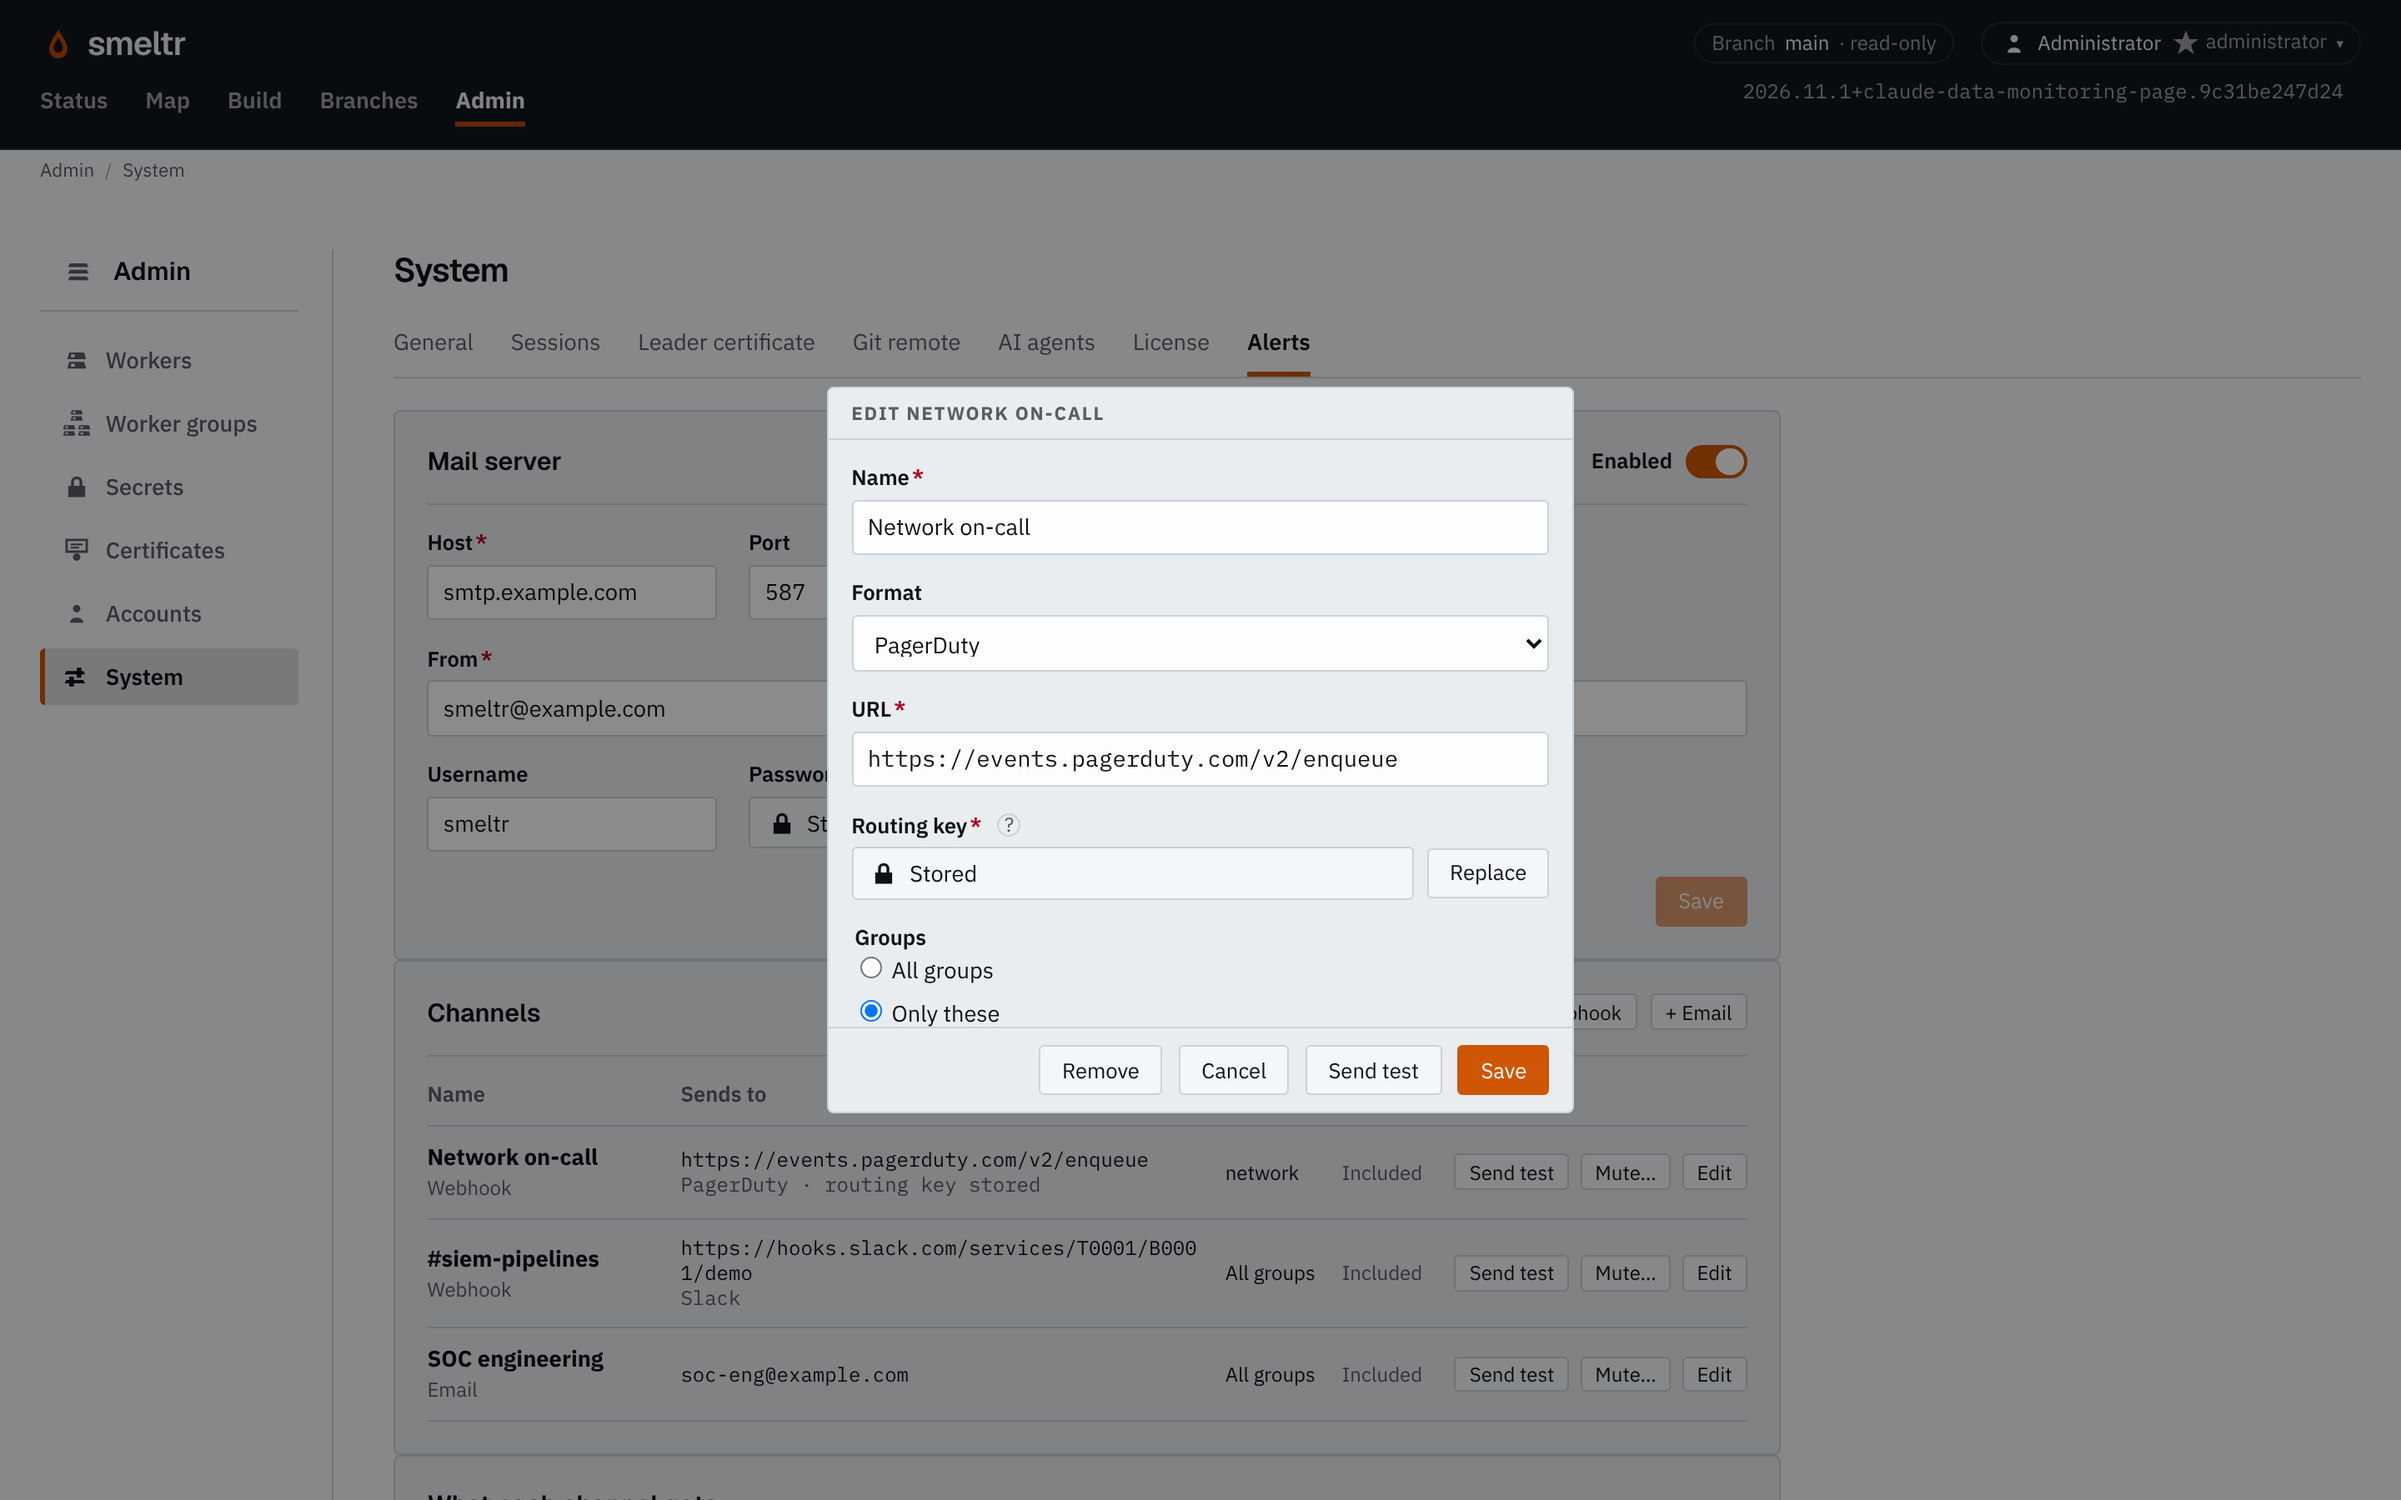
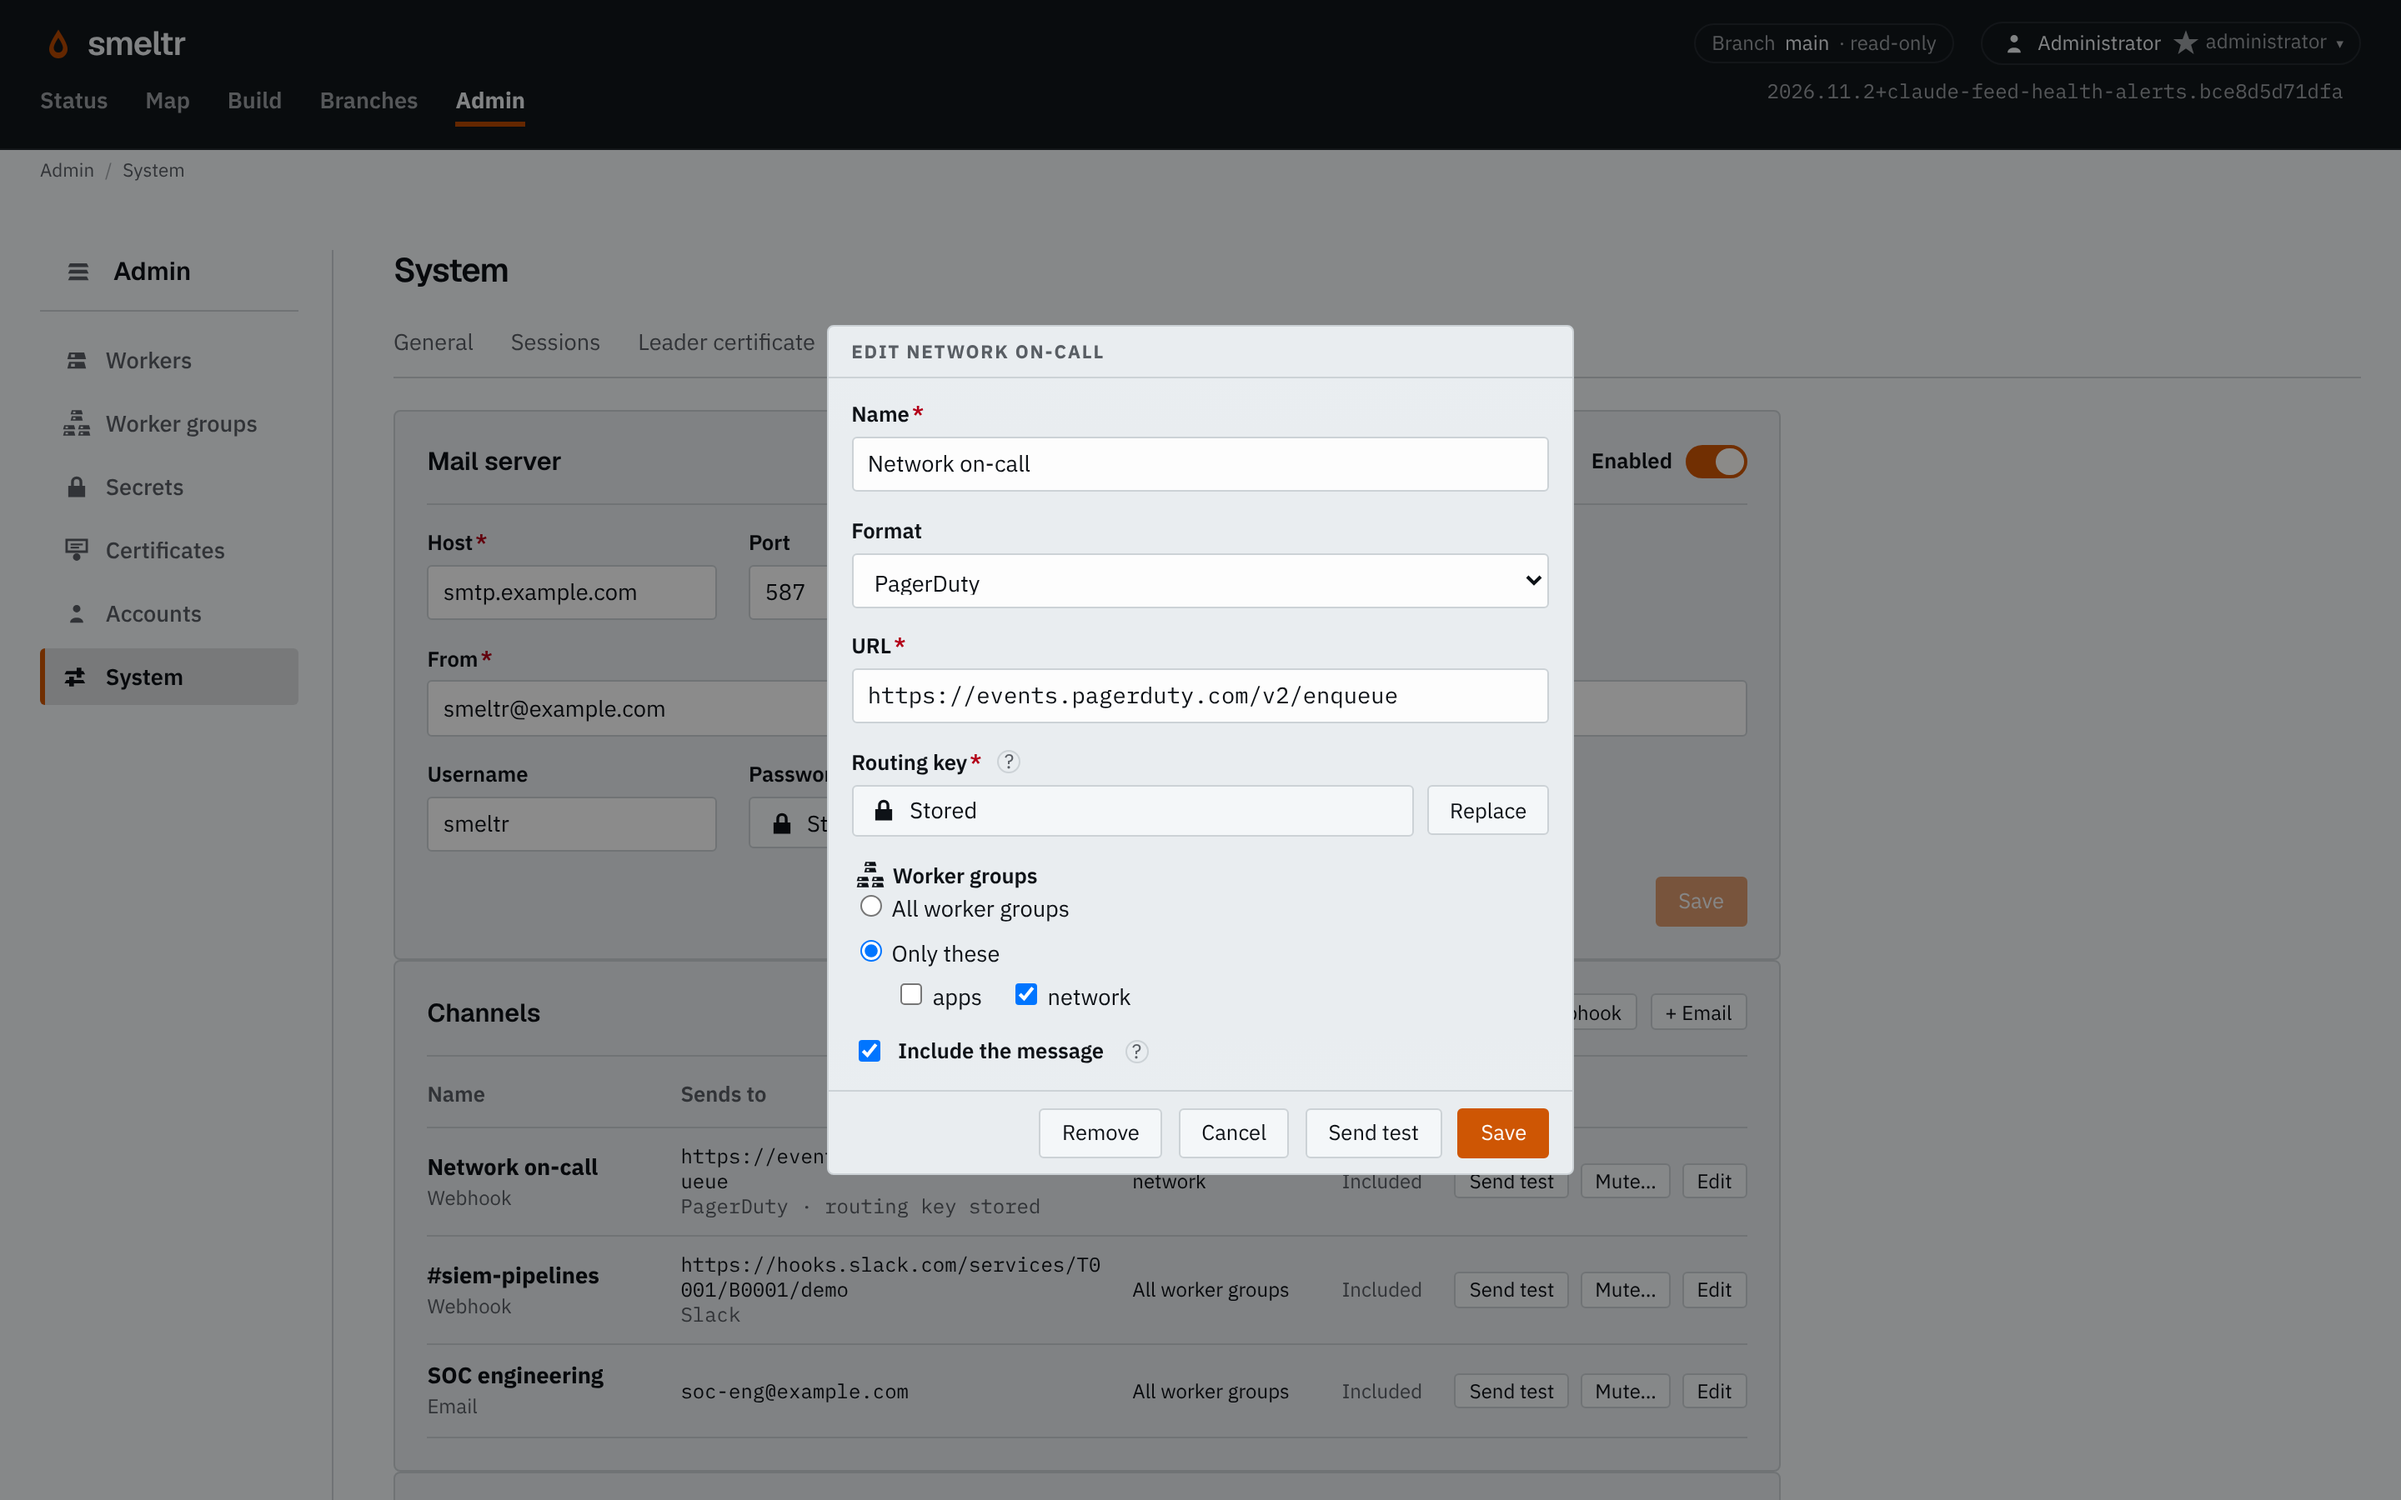
Website: Feed health's shots from a real outage, and the alerts as they look now
The volume and Issues shots come from the demo fleet with one FortiGate relay
down, and say "worker group" as the GUI now does. The alerts shots show the
Worker groups column and the whole channel dialog. The demo's history gives
each earlier day its own level, so the band is as wide as a real feed's.

Claude-Session: https://claude.ai/code/session_016X7h2RhLvp1HvfZozgwZZV

diff --git a/website/src/routes/feed-health/+page.svelte b/website/src/routes/feed-health/+page.svelte
@@ -39,14 +39,14 @@
         width: 1440,
         crop: { x: 472, y: 922, width: 920, height: 299 },
       }}
-      alt="The Issues page: Rows below normal, for the fortigate-firewalls source, which read 418,174 rows in 30 minutes where 729,828 to 958,960 is normal at this time of day."
+      alt="The Issues page: Rows below normal, for the fortigate-firewalls source, which read 564,427 rows in 30 minutes where 686,163 to 840,639 is normal at this time of day."
       caption="The Issues page names the source, what it read and what is normal."
     />
     <ProductScreenshot
       source="feed-health-volume"
       height={1800}
       crop={{ x: 2150, y: 470, width: 690, height: 950 }}
-      alt="The Map's panel for the fortigate-firewalls source: Rows below normal, input 243 rows a second, expected 405 to 533. Its 24-hour chart follows the expected band through the day, then falls to half."
+      alt="The Map's panel for the fortigate-firewalls source: Rows below normal, input 171 rows a second, expected 378 to 465. Its 24-hour chart follows the expected band through the day, then falls to half."
       caption="Over the last 24 hours the source reads within its band, until it falls to half."
     />
     <p>
@@ -70,7 +70,7 @@
         source: 'feed-health-issues-phone',
         height: 2200,
         width: 1440,
-        crop: { x: 472, y: 601, width: 920, height: 299 },
+        crop: { x: 472, y: 572, width: 920, height: 318 },
       }}
       alt="The Issues page: Field not its declared type, for the fortigate-traffic pipeline, whose field proto has failed to read as its declared type in the last hour."
       caption="The Issues page names the pipeline, the field and the step."
@@ -85,7 +85,7 @@
     </p>
     <ProductScreenshot
       source="feed-health-alerts"
-      height={4486}
+      height={4506}
       crop={{ x: 472, y: 1152, width: 1664, height: 594 }}
       alt="Admin, System, Alerts: three channels. Network on-call is a PagerDuty webhook for the network worker group, #siem-pipelines a Slack webhook for every worker group, and SOC engineering an email to soc-eng@example.com."
       caption="PagerDuty pages the network on-call, Slack tells the pipeline team, and email reaches SOC engineering."
@@ -96,8 +96,8 @@
     </p>
     <ProductScreenshot
       source="feed-health-alerts"
-      height={4486}
-      crop={{ x: 472, y: 1746, width: 1664, height: 914 }}
+      height={4506}
+      crop={{ x: 472, y: 1766, width: 1664, height: 914 }}
       alt="What each channel gets: a row for each kind of issue and a column for each channel. Network on-call takes Source unreachable, Destination unreachable and Rows below normal; #siem-pipelines takes Rows below normal and Rows above normal."
       caption="A row for each kind of issue, a column for each channel."
     />
@@ -110,9 +110,9 @@
     <ProductScreenshot
       source="feed-health-alert-channel"
       height={1800}
-      crop={{ x: 992, y: 464, width: 896, height: 871 }}
-      alt="Editing the Network on-call channel: format PagerDuty, URL https://events.pagerduty.com/v2/enqueue, routing key stored, groups only these."
-      caption="The network on-call's channel: PagerDuty's events URL and a stored routing key."
+      crop={{ x: 992, y: 390, width: 896, height: 1020 }}
+      alt="Editing the Network on-call channel: format PagerDuty, URL https://events.pagerduty.com/v2/enqueue, routing key stored, worker groups only network, message included."
+      caption="The network on-call channel pages through PagerDuty, for the network worker group only."
     />
     <p><a href="/docs/operations">Operate a fleet →</a></p>
   </section>

diff --git a/examples/demo-traffic.rs b/examples/demo-traffic.rs
@@ -202,10 +202,22 @@ fn history(registry: &std::path::Path) {
                 let width = Tier::for_window(Duration::from_millis((now - at) as u64)).bucket_ms();
                 at -= width;
                 // A day's curve, at its mean at this time of day, with each bucket's own noise: ±3%, as the live
-                // jitter averages out over a bucket, so the history reads as the same feed.
+                // jitter averages out over a bucket, so the history reads as the same feed. Each earlier day runs
+                // up to 12% above or below it, blended into the next, as a real feed's days differ: the spread
+                // at an hour across days is what sets the band. The last day is the live one's level.
                 let curve = 1.0 + 0.3 * (TAU * (at - now) as f64 / DAY).sin();
                 let noise = 0.97 + 0.06 * (mix(salt ^ at as u64) % 1_000) as f64 / 1_000.0;
-                let delta = (rate * width as f64 * curve * noise).round();
+                let days = (now - at) as f64 / DAY;
+                let level = |d: u64| {
+                    if d == 0 {
+                        1.0
+                    } else {
+                        0.88 + 0.24 * (mix(salt ^ d.wrapping_mul(0x9e37)) % 1_000) as f64 / 1_000.0
+                    }
+                };
+                let blend = 0.5 - 0.5 * (std::f64::consts::PI * days.fract()).cos();
+                let day = level(days as u64) * (1.0 - blend) + level(days as u64 + 1) * blend;
+                let delta = (rate * width as f64 * curve * day * noise).round();
                 if delta > 0.0 {
                     write(|| store.record_delta(metric, &subject, at, delta));
                     written += 1;
